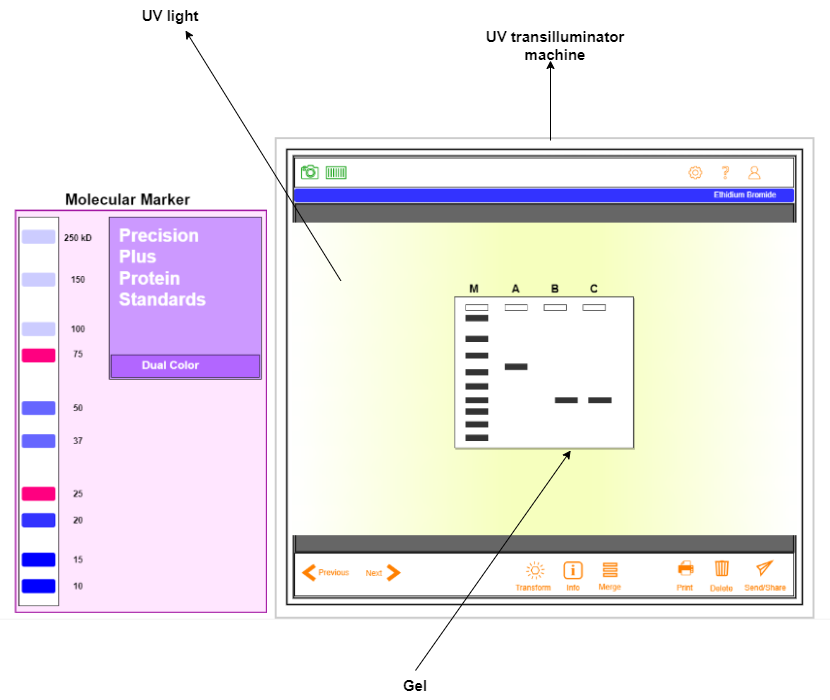
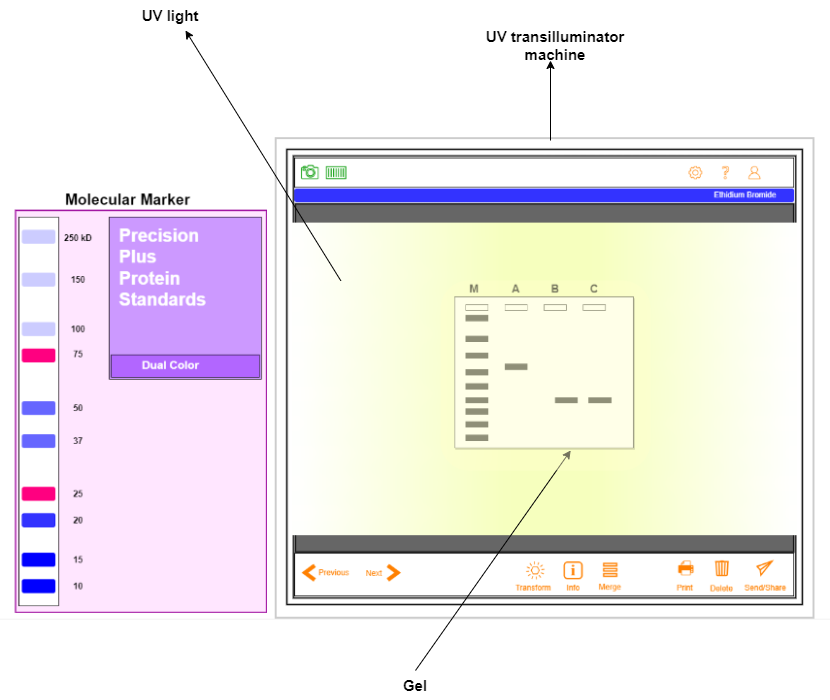
page

Changed region(s): [[0.5422, 0.39, 0.753, 0.63], [0.6627, 0.57, 0.7229, 0.6], [0.6627, 0.63, 0.6928, 0.66]]

diff --git a/experiment/simulation/index.html b/experiment/simulation/index.html
@@ -205,7 +205,7 @@ Developer: Prakriti Dhang
 								<td>Step 7</td>
 								<td>
 									<button class="btn btn-primary " type="button" id="viewsample"
-										onclick="view_sample_UVlight()" disabled>Visualization under UV light</button>
+										onclick="view_sample_UVlight()" >Visualization under UV light</button>
 								</td>
 							</tr>
 

diff --git a/experiment/simulation/css/main.css b/experiment/simulation/css/main.css
@@ -504,6 +504,7 @@ path,
     top: 185%;
     left: 80%;
     display: none;
+    opacity: 55%;
 }
 
 
